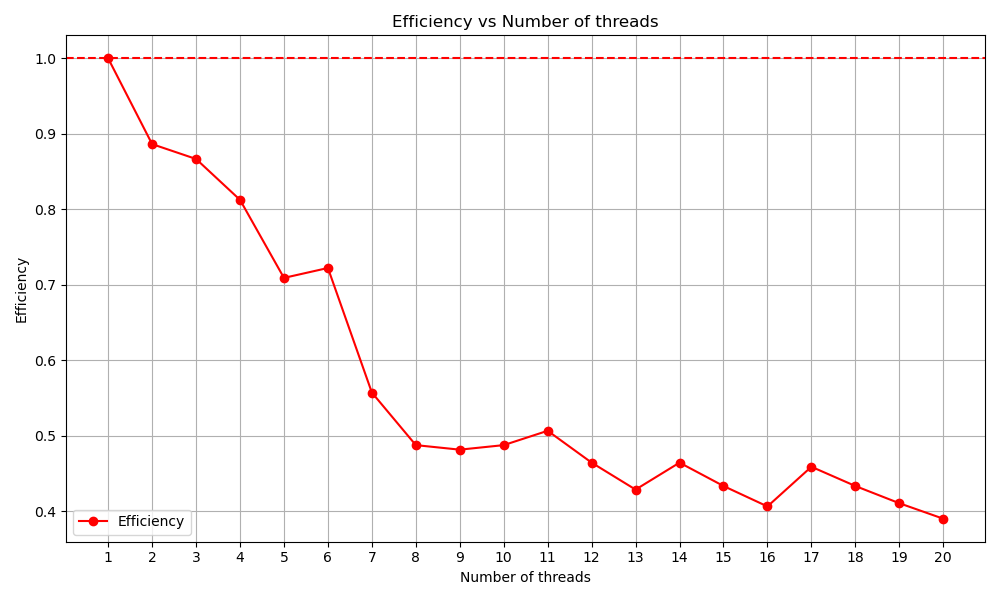
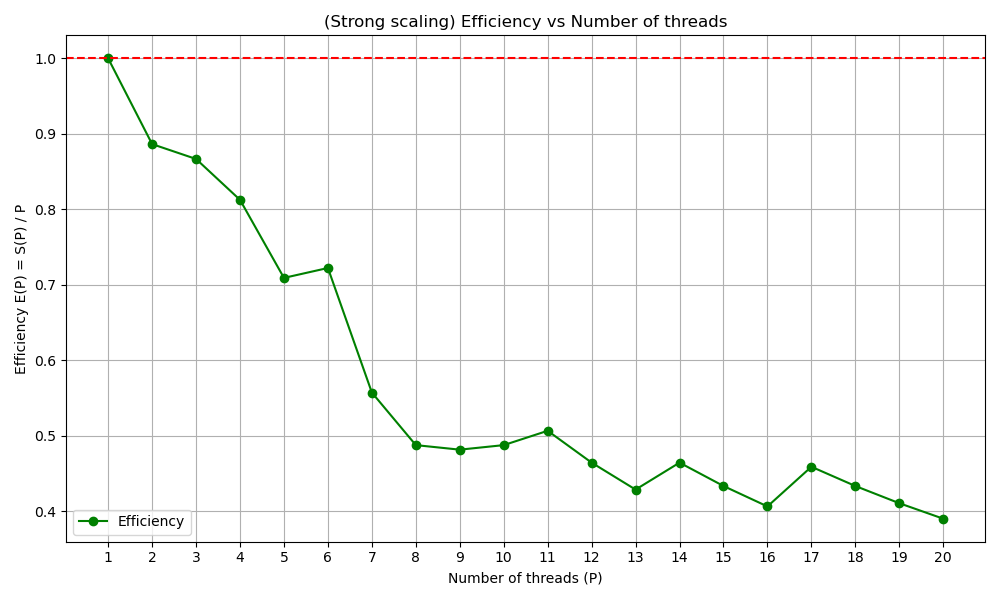
Updated images

diff --git a/omp/weak_time_plot.py b/omp/weak_time_plot.py
@@ -15,11 +15,11 @@ plt.plot(threads, compute_times, marker='o', linestyle='-', color='b', label='Co
 plt.xticks(threads)
 
 # Labeling the axes
-plt.xlabel('Number of Threads', fontsize=12)
-plt.ylabel('Compute Time (seconds)', fontsize=12)
+plt.xlabel('Number of Threads (P)', fontsize=12)
+plt.ylabel('Compute Time (seconds) T(P)', fontsize=12)
 
 # Adding a title
-plt.title('Weak Scaling of the Problem with OMP_NUM_THREADS', fontsize=14)
+plt.title('Weak Scaling of the Problem with P threads ', fontsize=14)
 
 # Log scale for the x-axis to better visualize the scaling
 plt.xscale('linear')
@@ -30,6 +30,6 @@ plt.grid(True)
 
 # Show the plot
 plt.legend()
-plt.show()
 
 plt.savefig("weak_time_plot.png")
+plt.show()

diff --git a/omp/strong_speedup_plot.py b/omp/strong_speedup_plot.py
@@ -40,10 +40,10 @@ speedup = [single_thread_time / time for time in compute_times]
 
 # Creazione del grafico dello speedup
 plt.figure(figsize=(10, 6))
-plt.plot(threads, speedup, marker='o', color='g', label='Speedup')
-plt.xlabel("Number of threads")
-plt.ylabel("Speedup")
-plt.title("Speedup vs Number of threads")
+plt.plot(threads, speedup, marker='o', color='r', label='Speedup')
+plt.xlabel("Number of threads (P)")
+plt.ylabel("Speedup S(P) = T(1) / T(P)")
+plt.title("(Strong scaling) Speedup vs Number of threads")
 plt.grid(True)
 plt.legend()
 plt.tight_layout()

diff --git a/omp/strong_efficiency_plot.py b/omp/strong_efficiency_plot.py
@@ -57,10 +57,10 @@ plt.tight_layout()
 
 # Creazione del grafico dell'efficienza
 plt.figure(figsize=(10, 6))
-plt.plot(threads, efficiency, marker='o', color='r', label='Efficiency')
-plt.xlabel("Number of threads")
-plt.ylabel("Efficiency")
-plt.title("Efficiency vs Number of threads")
+plt.plot(threads, efficiency, marker='o', color='g', label='Efficiency')
+plt.xlabel("Number of threads (P)")
+plt.ylabel("Efficiency E(P) = S(P) / P")
+plt.title("(Strong scaling) Efficiency vs Number of threads")
 plt.grid(True)
 plt.legend()
 plt.tight_layout()

diff --git a/omp/strong_time_plot.py b/omp/strong_time_plot.py
@@ -33,9 +33,9 @@ if not threads or not compute_times:
 # Creazione del grafico
 plt.figure(figsize=(10, 6))
 plt.plot(threads, compute_times, marker='o', color='b', label='Compute time CPU')
-plt.xlabel("Number of threads")
-plt.ylabel("Compute time (seconds)")
-plt.title("Compute time vs Number of threads")
+plt.xlabel("Number of threads (P)")
+plt.ylabel("Compute time (seconds) T(P)")
+plt.title("(Strong scaling) Compute time vs Number of threads")
 plt.grid(True)
 plt.legend()
 plt.tight_layout()

diff --git a/omp/weak_eff_plot.py b/omp/weak_eff_plot.py
@@ -49,10 +49,9 @@ def read_and_plot_efficiency(file_path):
 
     # Mostrare il grafico
     plt.legend()
+    plt.savefig("weak_eff_plot.png")
     plt.show()
 
 # Esegui lo script per il file di esempio
 file_path = 'weak.txt'  # Cambia con il percorso del tuo file
 read_and_plot_efficiency(file_path)
-
-plt.savefig("weak_eff_plot.png")
